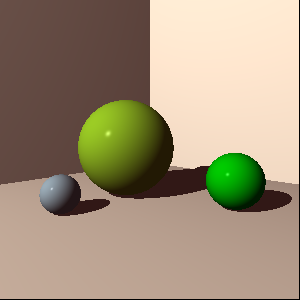
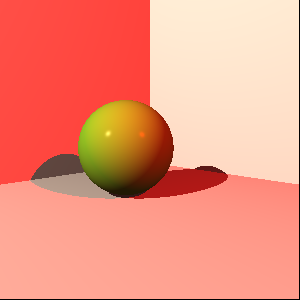
rename to Shaper intrface

diff --git a/main.go b/main.go
@@ -279,8 +279,9 @@ func scene() {
 	w := tracer.NewDefaultWorld(width, height)
 
 	// second light
-	l2 := tracer.NewPointLight(tracer.NewPoint(10, -10, 10), tracer.ColorName(colornames.Red))
+	l2 := tracer.NewPointLight(tracer.NewPoint(10, 10, -10), tracer.ColorName(colornames.Red))
 	w.AddLight(l2)
+	// w.SetLights([]tracer.Light{l2})
 
 	// where the camera is and where it's pointing; also which way is "up"
 	from := tracer.NewPoint(0, 1.5, -5)
@@ -289,10 +290,12 @@ func scene() {
 	cameraTransform := tracer.ViewTransform(from, to, up)
 	w.Camera().SetTransform(cameraTransform)
 
+	var material *tracer.Material
+
 	// walls (as flat spheres for now)
 	floor := tracer.NewUnitSphere()
 	floor.SetTransform(tracer.IdentityMatrix().Scale(10, 0.01, 10))
-	material := floor.Material()
+	material = floor.Material()
 	material.Color = tracer.ColorName(colornames.Beige)
 	material.Specular = 0
 	w.AddObject(floor)
@@ -320,23 +323,24 @@ func scene() {
 	material.Specular = 0.3
 	w.AddObject(middle)
 
-	// another sphere
-	right := tracer.NewUnitSphere()
-	right.SetTransform(tracer.IdentityMatrix().Scale(0.5, 0.5, 0.5).Translate(1.5, 0.5, -0.5))
-	material = right.Material()
-	material.Color = tracer.ColorName(colornames.Lime)
-	material.Diffuse = 0.7
-	material.Specular = 0.3
-	w.AddObject(right)
+	// // another sphere
+	// right := tracer.NewUnitSphere()
+	// right.SetTransform(tracer.IdentityMatrix().Scale(0.5, 0.5, 0.5).Translate(1.5, 0.5, -0.5))
+	// material = right.Material()
+	// material.Color = tracer.ColorName(colornames.Lime)
+	// material.Diffuse = 0.7
+	// material.Specular = 0.3
+	// w.AddObject(right)
 
-	// one more sphere
-	left := tracer.NewUnitSphere()
-	left.SetTransform(tracer.IdentityMatrix().Scale(0.33, 0.33, 0.33).Translate(-1.5, 0.33, -0.75))
-	material = left.Material()
-	material.Color = tracer.ColorName(colornames.Lightblue)
-	material.Diffuse = 0.7
-	material.Specular = 0.3
-	w.AddObject(left)
+	// // one more sphere
+	// left := tracer.NewUnitSphere()
+	// left.SetTransform(tracer.IdentityMatrix().Scale(0.33, 0.33, 0.33).Translate(-1.5, 0.33, -0.75))
+	// material = left.Material()
+	// material.Color = tracer.ColorName(colornames.Lightblue)
+	// material.Diffuse = 0.7
+	// material.Specular = 0.3
+	// w.AddObject(left)
+
 	canvas := w.Render()
 
 	// Export

diff --git a/tracer/intersect.go b/tracer/intersect.go
@@ -9,12 +9,12 @@ import (
 
 // Intersection encapsulates an intersection t value an an object
 type Intersection struct {
-	o Object
+	o Shaper
 	t float64
 }
 
 // NewIntersection returns an intersection object
-func NewIntersection(o Object, t float64) Intersection {
+func NewIntersection(o Shaper, t float64) Intersection {
 	return Intersection{o: o, t: t}
 }
 
@@ -24,7 +24,7 @@ func (i Intersection) T() float64 {
 }
 
 // Object returns the object of the intersection
-func (i Intersection) Object() Object {
+func (i Intersection) Object() Shaper {
 	return i.o
 }
 
@@ -67,7 +67,7 @@ func (a byT) Less(i, j int) bool { return a[i].t < a[j].t }
 // IntersectionState holds precomputed values for an intersection
 type IntersectionState struct {
 	T         float64 // How far away from Ray origin did this occur?
-	Object    Object  // The object we intersected
+	Object    Shaper  // The object we intersected
 	Point     Point   // the point of intersection
 	EyeV      Vector  // eye vector
 	NormalV   Vector  // normal vector

diff --git a/tracer/light.go b/tracer/light.go
@@ -46,6 +46,11 @@ func lighting(m *Material, p Point, l Light, eye, normal Vector, inShadow bool) 
 	// compute ambient contribution
 	ambient = effectiveColor.Scale(m.Ambient)
 
+	// light not visible, ignore diffuse ans specular components
+	if inShadow {
+		return ambient
+	}
+
 	// lightDotNormal represnets the cosine of the angle btween the light vector and the normal vector
 	// a negaive number means the light is on the other side of the surface
 	lightDotNormal := lightv.Dot(normal)
@@ -69,11 +74,6 @@ func lighting(m *Material, p Point, l Light, eye, normal Vector, inShadow bool) 
 			factor := math.Pow(reflectDotEye, m.Shininess)
 			specular = l.Intensity().Scale(m.Specular).Scale(factor)
 		}
-	}
-
-	// light not visible, ignore diffuse ans specular components
-	if inShadow {
-		return ambient
 	}
 
 	return ambient.Add(diffuse).Add(specular)

diff --git a/tracer/world.go b/tracer/world.go
@@ -9,7 +9,7 @@ import (
 
 // World holds everything in it
 type World struct {
-	Objects []Object
+	Objects []Shaper
 	Lights  []Light
 	camera  *Camera
 }
@@ -27,7 +27,7 @@ func NewDefaultWorld(width, height float64) *World {
 	camera.SetTransform(viewTransform)
 
 	return &World{
-		Objects: []Object{},
+		Objects: []Shaper{},
 		Lights:  []Light{defaultLight},
 		camera:  camera,
 	}
@@ -44,13 +44,13 @@ func NewDefaultTestWorld() *World {
 	s2.SetTransform(IdentityMatrix().Scale(0.5, 0.5, 0.5))
 
 	return &World{
-		Objects: []Object{s1, s2},
+		Objects: []Shaper{s1, s2},
 		Lights:  []Light{l1},
 	}
 }
 
 // AddObject adds an object into the world
-func (w *World) AddObject(o Object) {
+func (w *World) AddObject(o Shaper) {
 	w.Objects = append(w.Objects, o)
 }
 

diff --git a/tracer/geometry.go b/tracer/geometry.go
@@ -1,9 +1,7 @@
 package tracer
 
-// Tupler ...
-
-// Object represents an physical object
-type Object interface {
+// Shaper represents an physical object
+type Shaper interface {
 	IntersectWith(Ray) Intersections
 
 	NormalAt(Point) Vector

diff --git a/tracer/intersect_test.go b/tracer/intersect_test.go
@@ -8,7 +8,7 @@ import (
 
 func TestNewIntersection(t *testing.T) {
 	type args struct {
-		o Object
+		o Shaper
 		t float64
 	}
 	tests := []struct {
